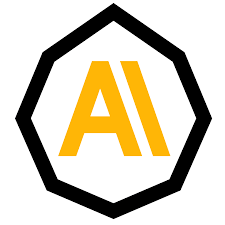
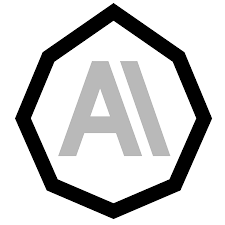
Black and White Theme

Changed region(s): [[0.2489, 0.2489, 0.7778, 0.7156]]

diff --git a/index.html b/index.html
@@ -7,7 +7,7 @@
 <html>
 
 <head>
-	<title>Chirag's Portfolio</title>
+	<title>Chirag Shetty</title>
 	<link rel="apple-touch-icon" sizes="180x180" href="images/apple-touch-icon.png">
 	<link rel="icon" type="image/png" sizes="32x32" href="images/favicon-32x32.png">
 	<link rel="icon" type="image/png" sizes="16x16" href="images/favicon-16x16.png">
@@ -59,6 +59,8 @@
 					<li><a href="https://www.linkedin.com/in/chirag-shetty-85250913a/"
 							class="icon brands fa-linkedin-in" target="_blank"><span class="label">LinkedIn</span></a>
 					</li>
+					<li><a href="mailto:chirag4798@gmail.com" target="_blank" class="icon fa-envelope"><span
+								class="label">Email</span></a></li>
 				</ul>
 			</div>
 		</section>
@@ -132,10 +134,9 @@
 			<div class="inner">
 				<div class="features">
 					<section>
-						<span class="icon solid major fa-code"></span>
 						<a href="https://chirag4798.github.io/ClusteringLocations/" class="image fit"
 							target="_blank"><img src="images/cluster.jpg" width=500 height=375 alt="" /></a>
-						<h3>CLUSTERING LOCATIONS</h3>
+						<h3 align="center">CLUSTERING LOCATIONS</h3>
 						<p align="justify">An in-depth analysis aimed at suggesting suitable locations to set up a
 							restaurant as well as
 							the
@@ -150,10 +151,9 @@
 						</ul>
 					</section>
 					<section>
-						<span class="icon solid major fa-code"></span>
 						<a href="https://github.com/chirag4798/Pong" class="image fit" target="_blank"><img
 								src="images/pong.jpg" width=500 height=375 alt="" /></a>
-						<h3>PONG AI</h3>
+						<h3 align="center">PONG AI</h3>
 						<p align="justify">The traditional Pong game implemented with turtle package. A single player
 							game which is
 							played
@@ -165,10 +165,9 @@
 						</ul>
 					</section>
 					<section>
-						<span class="icon solid major fa-code"></span>
 						<a href="https://github.com/chirag4798/MultiLayeredPerceptron" class="image fit"
 							target="_blank"><img src="images/network.jpg" width=500 height=375 alt="" /></a>
-						<h3>NEURAL NETWORKS FROM SCRATCH</h3>
+						<h3 align="center">NEURAL NETWORKS FROM SCRATCH</h3>
 						<p align="justify">Neural Network / Multi Layered Perceptron implemeted from scratch using just
 							vector and
 							matrix computations. The goal of the projects was to understand the intricacies of Deep
@@ -182,10 +181,9 @@
 						</ul>
 					</section>
 					<section>
-						<span class="icon solid major fa-code"></span>
 						<a href="#" class="image fit"><img src="images/mercedes.jpg" width=500 height=375 alt=""
 								target="_blank" /></a>
-						<h3>MERCEDES BENZ GREENER MANUFACTURING</h3>
+						<h3 align="center">MERCEDES BENZ GREENER MANUFACTURING</h3>
 						<p align="justify">Kaggle problem to estimate and reduce the bench time for testing
 							automobiles. The problem had a unique requirments since features were anonymized and harder
 							to interpret. Ranked top 5% on the Kaggle Leaderboard for this problem, with 156 being the
@@ -202,19 +200,16 @@
 		<section id="four" class="wrapper style1 fade-up">
 			<div class="inner">
 				<section>
-					<ul class="contact">
+					<ul class="contact" align="center">
 						<li>
-							<h3>EMAIL</h3>
-							<a href="#">CHIRAG4798@GMAIL.COM</a>
-						</li>
-						<li>
-							<h3>SOCIAL MEDIA</h3>
-							<ul class="icons" style="font-size: 35px;">
-								<li><a href="https://github.com/chirag4798/" class="icon brands fa-github"><span
-											class="label">Github</span></a></li>
-								<li><a href="https://www.linkedin.com/in/chirag-shetty-85250913a/"
-										class="icon brands fa-linkedin-in"><span class="label">LinkedIn</span></a>
-								</li>
+							<h3>REACH OUT TO ME</h3>
+							<ul class="icons" style="font-size: 60px;">
+								<li><a href="https://github.com/chirag4798/" class="icon brands fa-github"
+										target="_blank"><span class="label">Github</span></a></li>
+								<li><a href="https://www.linkedin.com/in/chirag-shetty-85250913a/" target="_blank"
+										class="icon brands fa-linkedin-in"><span class="label">LinkedIn</span></a></li>
+								<li><a href="mailto:chirag4798@gmail.com" target="_blank" class="icon fa-envelope"><span
+											class="label">Email</span></a></li>
 							</ul>
 						</li>
 					</ul>

diff --git a/assets/css/main.css b/assets/css/main.css
@@ -1995,7 +1995,7 @@ input, select, textarea {
 	}
 
 		.features section {
-			padding: 3.5em 3em 1em 7em ;
+			padding: 1em 1em 1em 1em ;
 			width: 50%;
 			border-top: solid 1px rgba(255, 255, 255, 0.15);
 			position: relative;
